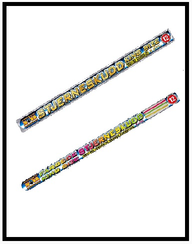
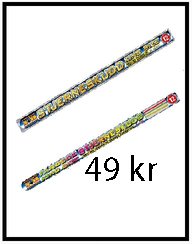
Finished up nova

Changed region(s): [[0.4375, 0.6311, 0.625, 0.7459], [0.6562, 0.6311, 0.8125, 0.7459]]

diff --git a/rnd_proj/nova/nova.py b/rnd_proj/nova/nova.py
@@ -45,14 +45,14 @@ class Nova(tk.Frame):
 
 
 	def add_imgs(self):
-		self.inv_list = [["Atomic", "199"], ["Superti", "329"], ["Magnum", "499"], ["xtrem", "1599"], ["Flashlight", "599"]
-		, ["Phoenix", "599"], ["Bolero", "599"], ["Circus", "599"], ["Bizarre", "599"], ["Goldfish", "599"]
-		, ["Orion", "599"], ["Trapez", "599"], ["Passion", "599"], ["Tnt", "599"], ["Tbird", "599"]
-		, ["Commando", "599"], ["Shocker", "599"], ["Gladiator", "599"], ["Crossfire", "599"], ["Firestorm", "599"]
-		, ["Dragonstep", "599"], ["Hellfire", "599"], ["Diablo", "599"], ["Kickass", "599"], ["Vipblackline", "599"], ["Monster", "599"]
-		, ["Eagle", "599"], ["Monsterpack", "599"], ["Nighthawk", "599"], ["Strobe", "599"], ["Thunderbolt", "599"]
-		, ["Topflight", "599"], ["Partymix", "599"], ["Stormlighter", "599"], ["Stjerneskudd", "599"], ["Stjerneskuddmini", "599"]
-		, ["Tjuefemkroner", "599"], ["Tikroner", "599"], ["Lyxfontene", "599"], ["Handfakkel", "599"], ["Fargefontene", "599"]]
+		self.inv_list = [["Atomic", "199"], ["Superti", "349"], ["Magnum", "449"], ["xtrem", "1499"], ["Flashlight", "749"]
+		, ["Phoenix", "1199"], ["Bolero", "399"], ["Circus", "199"], ["Bizarre", "199"], ["Goldfish", "329"], ["Orion", "279"]
+		, ["Trapez", "549"], ["Passion", "349"], ["Tnt", "99"], ["Tbird", "399"], ["Commando", "499"], ["Shocker", "599"], ["Kamikaze", "399"]
+		, ["Gladiator", "799"], ["Crossfire", "599"], ["Blackspider", "749"], ["Firestorm", "599"], ["Hellfire", "999"], ["Aceshigh", "2499"]
+		, ["Kickass", "1199"], ["Supernova", "1499"], ["Vipblackline", "1999"], ["Monster", "199"], ["Eagle", "249"], ["Monsterpack", "479"]
+		, ["Nighthawk", "239"], ["Strobe", "599"], ["Thunderbolt", "399"], ["Nitrobag", "549"], ["Bigbag", "999"], ["Topflight", "999"]
+		, ["Partymix", "199"], ["Stormlighter", "29"], ["Stjerneskudd", "49"], ["Stjerneskuddmini", "20"], ["Tjuefemkroner", "25"]
+		, ["Tikroner", "10"], ["Glowstick", "5"], ["Lyxfontene", "69"], ["Handfakkel", "49"], ["Fargefontene", "99"]]
 		self.func_list = []
 		self.y_pos = 0
 		self.img_pos = -1

diff --git a/rnd_proj/nova/nova_pc.py b/rnd_proj/nova/nova_pc.py
@@ -45,14 +45,14 @@ class Nova(tk.Frame):
 
 
 	def add_imgs(self):
-		self.inv_list = [["Atomic", "199"], ["Superti", "329"], ["Magnum", "499"], ["xtrem", "1599"], ["Flashlight", "599"]
-		, ["Phoenix", "599"], ["Bolero", "599"], ["Circus", "599"], ["Bizarre", "599"], ["Goldfish", "599"]
-		, ["Orion", "599"], ["Trapez", "599"], ["Passion", "599"], ["Tnt", "599"], ["Tbird", "599"]
-		, ["Commando", "599"], ["Shocker", "599"], ["Gladiator", "599"], ["Crossfire", "599"], ["Firestorm", "599"]
-		, ["Dragonstep", "599"], ["Hellfire", "599"], ["Diablo", "599"], ["Kickass", "599"], ["Vipblackline", "599"], ["Monster", "599"]
-		, ["Eagle", "599"], ["Monsterpack", "599"], ["Nighthawk", "599"], ["Strobe", "599"], ["Thunderbolt", "599"]
-		, ["Topflight", "599"], ["Partymix", "599"], ["Stormlighter", "599"], ["Stjerneskudd", "599"], ["Stjerneskuddmini", "599"]
-		, ["Tjuefemkroner", "599"], ["Tikroner", "599"], ["Lyxfontene", "599"], ["Handfakkel", "599"], ["Fargefontene", "599"]]
+		self.inv_list = [["Atomic", "199"], ["Superti", "349"], ["Magnum", "449"], ["xtrem", "1499"], ["Flashlight", "749"]
+		, ["Phoenix", "1199"], ["Bolero", "399"], ["Circus", "199"], ["Bizarre", "199"], ["Goldfish", "329"], ["Orion", "279"]
+		, ["Trapez", "549"], ["Passion", "349"], ["Tnt", "99"], ["Tbird", "399"], ["Commando", "499"], ["Shocker", "599"], ["Kamikaze", "399"]
+		, ["Gladiator", "799"], ["Crossfire", "599"], ["Blackspider", "749"], ["Firestorm", "599"], ["Hellfire", "999"], ["Aceshigh", "2499"]
+		, ["Kickass", "1199"], ["Supernova", "1499"], ["Vipblackline", "1999"], ["Monster", "199"], ["Eagle", "249"], ["Monsterpack", "479"]
+		, ["Nighthawk", "239"], ["Strobe", "599"], ["Thunderbolt", "399"], ["Nitrobag", "549"], ["Bigbag", "999"], ["Topflight", "999"]
+		, ["Partymix", "199"], ["Stormlighter", "29"], ["Stjerneskudd", "49"], ["Stjerneskuddmini", "20"], ["Tjuefemkroner", "25"]
+		, ["Tikroner", "10"], ["Glowstick", "5"], ["Lyxfontene", "69"], ["Handfakkel", "49"], ["Fargefontene", "99"]]
 		self.func_list = []
 		self.y_pos = 0
 		self.img_pos = -1
